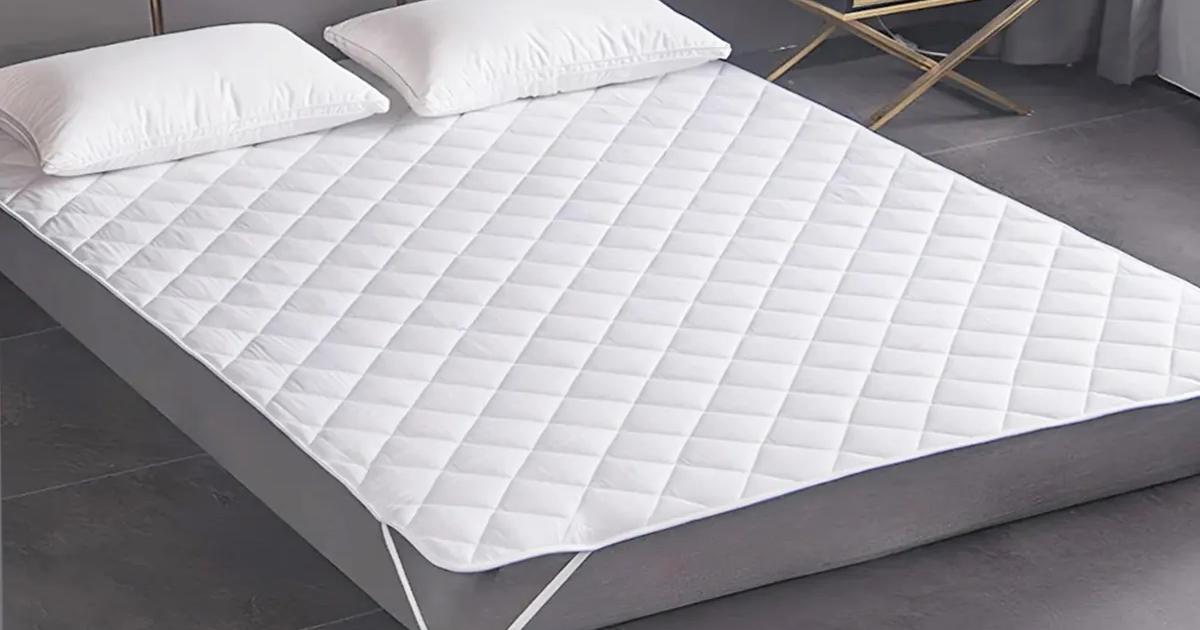
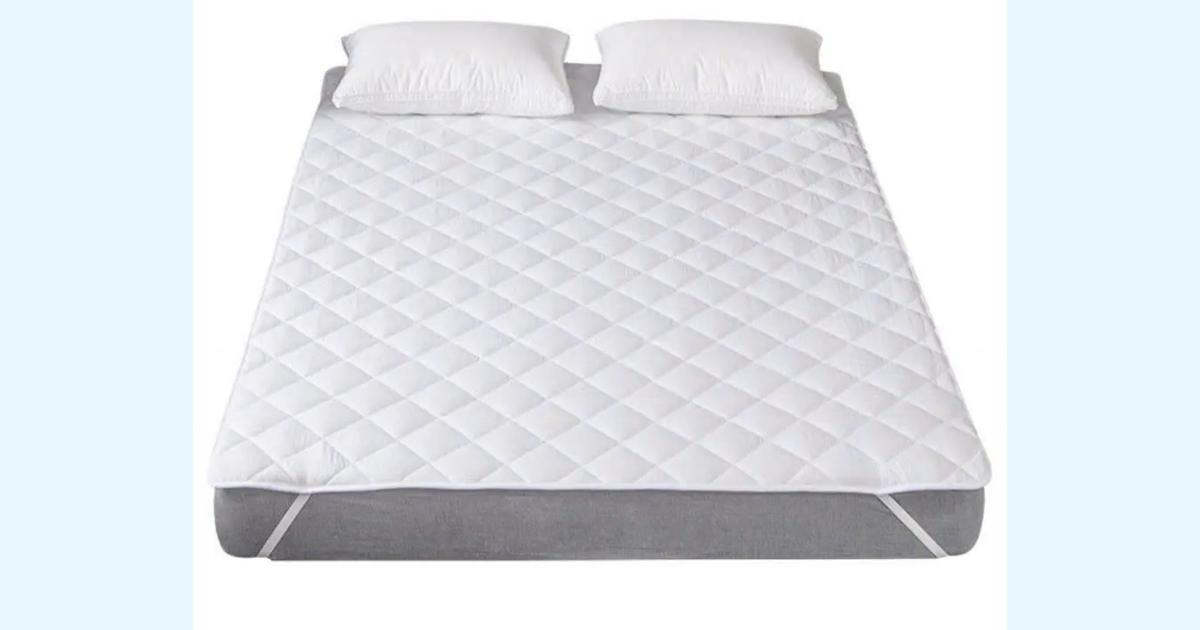
fix: ảnh bảo vệ đệm đúng tỉ lệ, thêm 2 ảnh phụ (Zalo 17/11)
Ảnh cũ rút từ bảng giá PDF bị kéo dãn ngang. Thay bằng 3 ảnh chị Phương gửi:
ảnh chính trên giường, ảnh lật tấm, ảnh góc dây thun. Làm lại ảnh chia sẻ.

diff --git a/src/data/products.ts b/src/data/products.ts
@@ -176,7 +176,7 @@ const variantGrid = (
 /**
  * Bảo vệ đệm, divan: giá từng cỡ khách gửi Zalo 05/11/2026, khớp bảng giá 2026; chữ theo catalog Ecopillo 22.07.2026 (trang 64, 66).
  * Ảnh divan khách gửi Zalo 08/11/2026 (tools/nen-anh-khach-gui-2026-11-09.py);
- * ảnh bảo vệ đệm lấy từ bảng giá 2026 (tools/nen-anh-bang-gia-2026-11-09.py).
+ * ảnh bảo vệ đệm chị Phương gửi Zalo 17/11/2026 (tools/nen-anh-bao-ve-dem-2026-11-17.py); ảnh rút từ bảng giá trước đó bị kéo dãn ngang.
  * Dòng bảng giá ở ESSENTIALS (catalog.ts) ghi giá thấp – cao, phải khớp.
  */
 const BAO_VE_DEM: Product = {
@@ -188,6 +188,10 @@ const BAO_VE_DEM: Product = {
   max: 889_000,
   image: productImage('bao-ve-dem-chong-tham', 'Tấm bảo vệ đệm chống thấm Ecopillo, dây thun 4 góc'),
   imageNote: 'Ảnh tấm bảo vệ đệm chống thấm',
+  gallery: [
+    productImage('bao-ve-dem-chong-tham-2', 'Tấm bảo vệ đệm chống thấm Ecopillo lật một góc trên giường'),
+    productImage('bao-ve-dem-chong-tham-3', 'Góc tấm bảo vệ đệm chống thấm với dây thun co giãn'),
+  ],
   details: [
     'Hạn chế lấm bẩn từ mồ hôi, thức ăn, đồ uống, giữ đệm luôn sạch.',
     'Chống bám bụi, ngăn nấm mốc, vi khuẩn và côn trùng.',

diff --git a/tools/nen-anh-bao-ve-dem-2026-11-17.py b/tools/nen-anh-bao-ve-dem-2026-11-17.py
@@ -1,0 +1,32 @@
+# -*- coding: utf-8 -*-
+"""Nén 3 ảnh tấm bảo vệ đệm chống thấm chị Phương gửi Zalo 17/11/2026 (thay ảnh rút từ bảng giá PDF, bị kéo dãn ngang).
+Ảnh gốc (PNG giải từ bộ nhớ đệm Zalo) ở images/bao-ve-dem-zalo-17-11/, không lên git.
+Chạy từ gốc project:
+  python3 -I tools/nen-anh-bao-ve-dem-2026-11-17.py images/bao-ve-dem-zalo-17-11 public/images/products
+Cần Pillow. Giữ đúng tỉ lệ ảnh gốc, chỉ thu nhỏ."""
+import os
+import sys
+
+from PIL import Image
+
+SRC, OUT = sys.argv[1], sys.argv[2]
+
+# Ảnh gốc -> tên file web (không đuôi), theo src/data/products.ts (BAO_VE_DEM)
+PHOTOS = {
+    '1-tren-giuong.png': 'bao-ve-dem-chong-tham',
+    '3-lat-tam.png': 'bao-ve-dem-chong-tham-2',
+    '2-goc-thun.png': 'bao-ve-dem-chong-tham-3',
+}
+
+def save(im: Image.Image, name: str, width: int) -> None:
+    scale = width / max(im.size)
+    if scale < 1:
+        im = im.resize((round(im.width * scale), round(im.height * scale)), Image.LANCZOS)
+    dst = os.path.join(OUT, name)
+    im.save(dst, 'WEBP', quality=80, method=6)
+    print(f'{name:36s} {im.size[0]}x{im.size[1]} {os.path.getsize(dst) // 1024} KB')
+
+for src, name in PHOTOS.items():
+    im = Image.open(os.path.join(SRC, src)).convert('RGB')
+    save(im, f'{name}.webp', 1600)
+    save(im, f'{name}-sm.webp', 640)

diff --git a/tools/nen-anh-bang-gia-2026-11-09.py b/tools/nen-anh-bang-gia-2026-11-09.py
@@ -19,8 +19,8 @@ PHOTOS = {
     1250: 'dem-bong-ep-cao-cap-mix-latex-2',
     1248: 'dem-bong-ep-cao-cap-mix-latex-3',
     1249: 'dem-bong-ep-cao-cap-mix-latex-4',
-    # Trang 21: tấm bảo vệ đệm chống thấm (dây thun 4 góc). Ảnh 1498 là topper, đã có ảnh từ web cũ
-    1500: 'bao-ve-dem-chong-tham',
+    # Trang 21: ảnh 1500 (bảo vệ đệm) trong PDF bị kéo dãn ngang; từ 17/11/2026 dùng ảnh chị Phương gửi
+    # (tools/nen-anh-bao-ve-dem-2026-11-17.py), đừng rút lại. Ảnh 1498 là topper, đã có ảnh từ web cũ
     # Trang 22, 23: ruột gối tựa, ruột gối ôm, ruột chăn Micro Plus
     1510: 'ruot-goi-tua',
     1523: 'ruot-goi-om',
